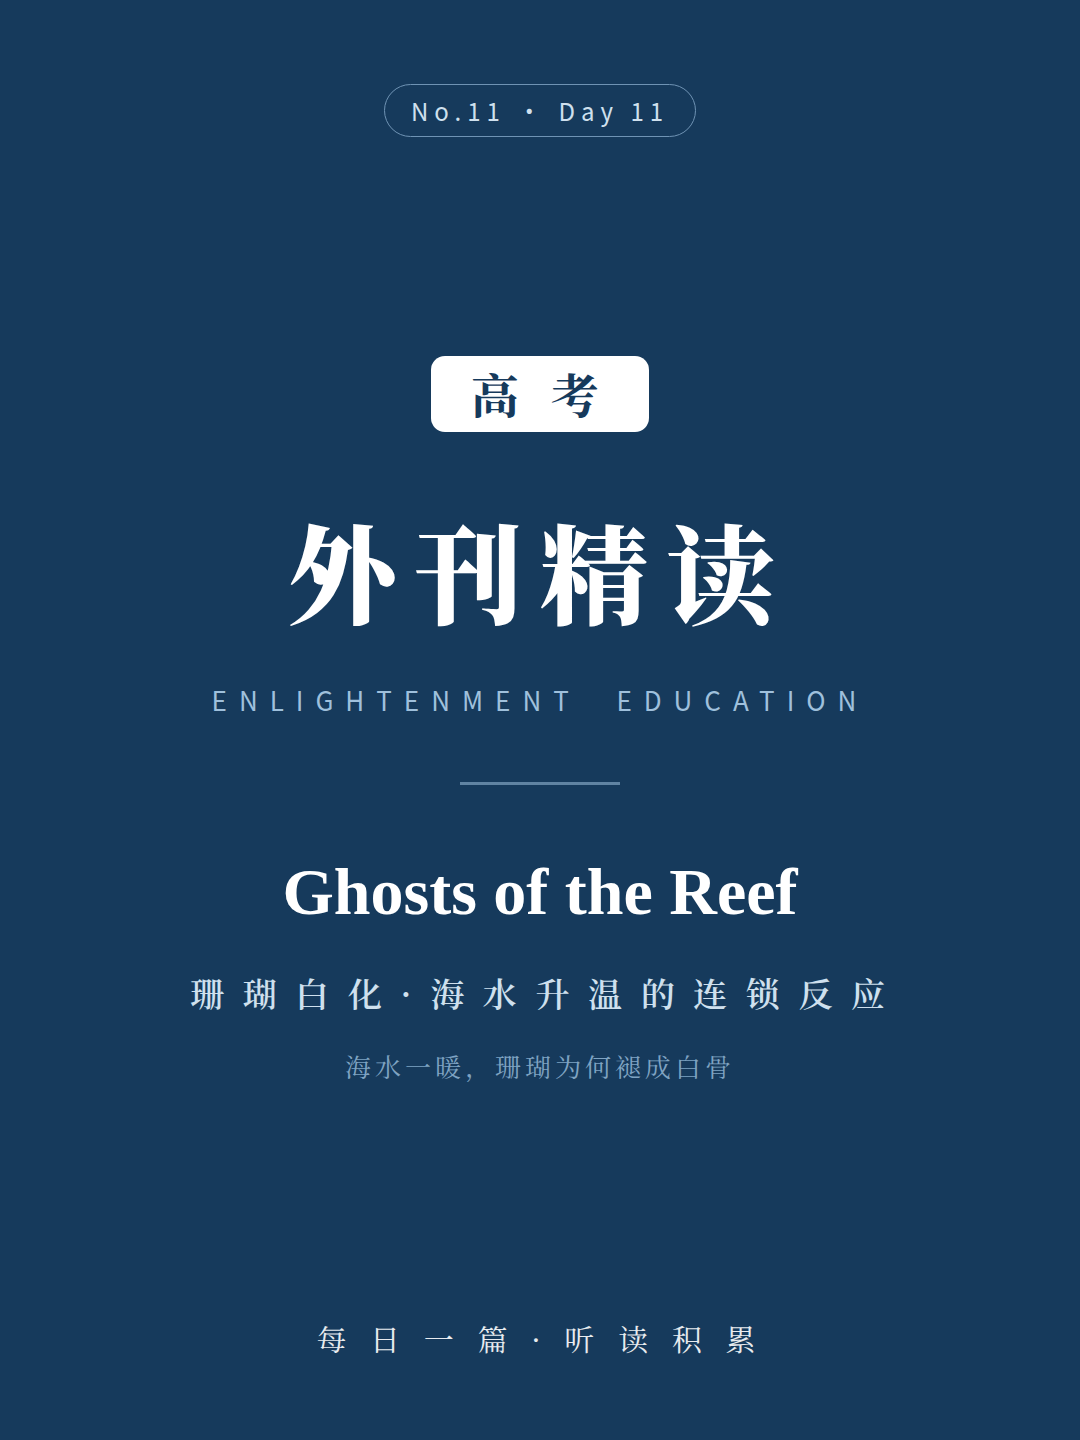
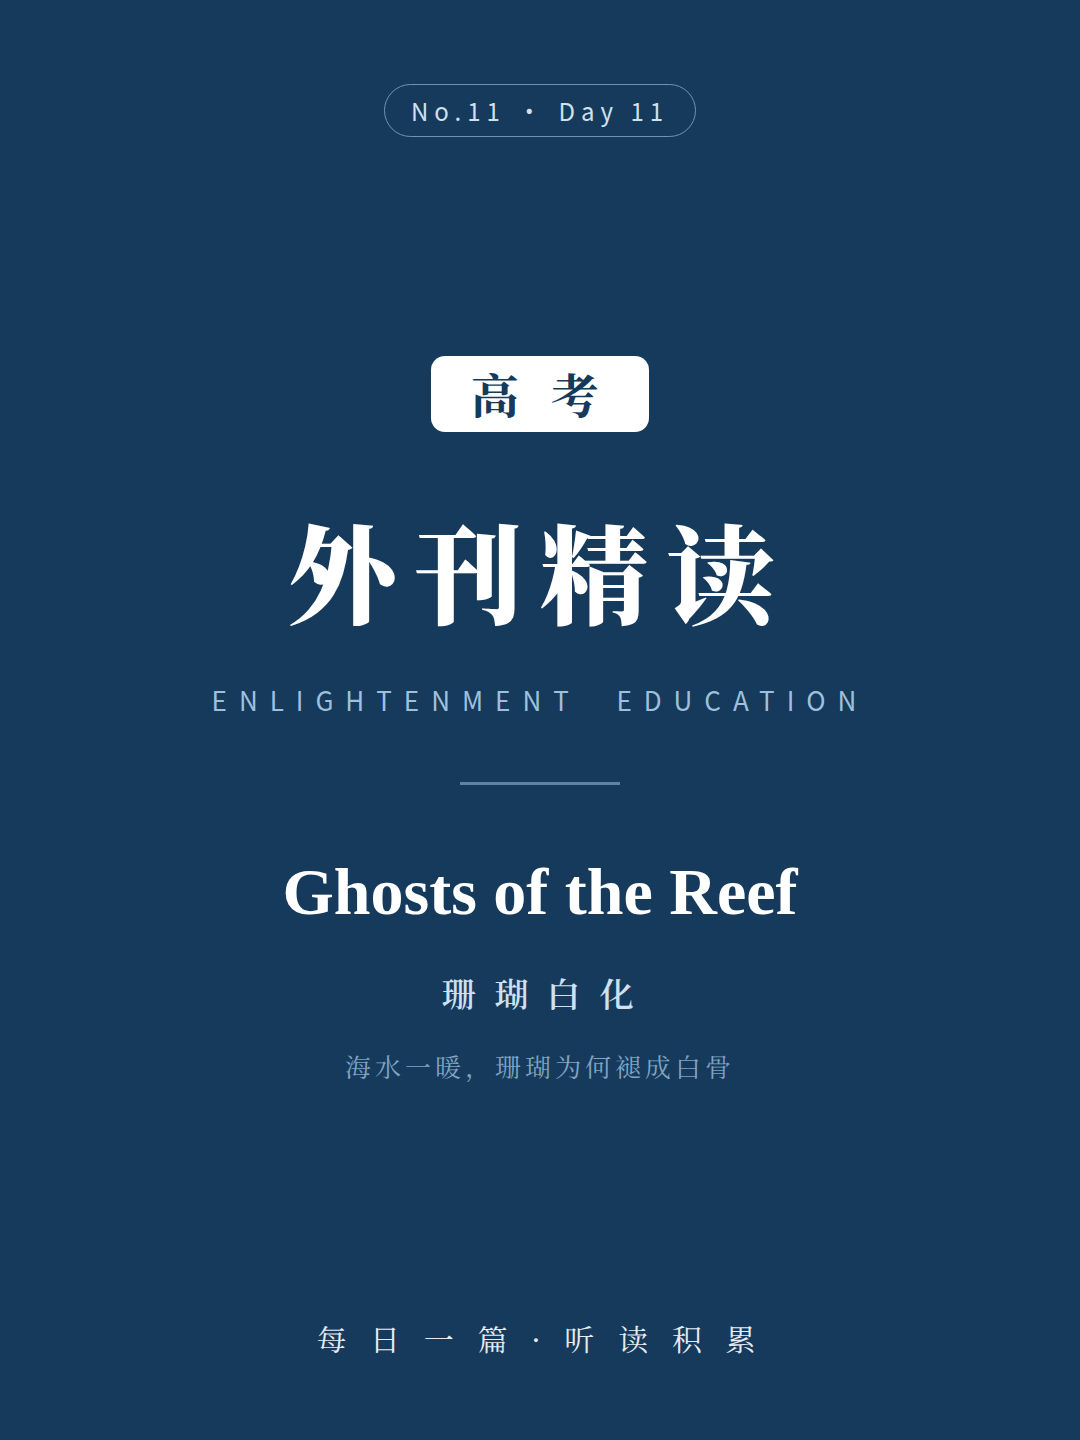
suucai: mark 高考外刊 No.11 珊瑚白化 posted (Elaine 07-31 确认已发)

diff --git a/suucai/build_catalog.py b/suucai/build_catalog.py
@@ -30,8 +30,9 @@ POSTED = {
     "听力|mokao-06","听力|mokao-07","听力|mokao-08","听力|changdh-01","听力|changdh-02",
     "听力|changdh-03","听力|changdh-04","听力|changdh-05","听力|changdh-06","听力|changdh-07","听力|changdh-08","听力|changdh-09","听力|changdh-10","听力|chuzhong-01","听力|zhenti-01","听力|jinjie-01",
     "听力|gaokao-d1","听力|gaokao-d2",
-    # 高考外刊 — No.08 威尼斯 07-15 已发；No.09 睡眠 07-17 Elaine 确认已发；No.10 一人一药/基因编辑 07-20 两平台视频已发
-    "高考外刊|1","高考外刊|2","高考外刊|3","高考外刊|4","高考外刊|5","高考外刊|6","高考外刊|7","高考外刊|8","高考外刊|9","高考外刊|10",
+    # 高考外刊 — No.08 威尼斯 07-15 已发；No.09 睡眠 07-17 Elaine 确认已发；No.10 一人一药/基因编辑 07-20 两平台视频已发；
+    #            No.11 珊瑚白化 07-31 Elaine 确认「珊瑚已发」（视频号/贴图号/公众号 + 朋友圈）
+    "高考外刊|1","高考外刊|2","高考外刊|3","高考外刊|4","高考外刊|5","高考外刊|6","高考外刊|7","高考外刊|8","高考外刊|9","高考外刊|10","高考外刊|11",
     # 初中外刊 — No.09 韦布望远镜 07-23 Elaine 确认已发（No.10 二十四节气 视频已交付, 未发）
     "初中外刊|1","初中外刊|2","初中外刊|3","初中外刊|4","初中外刊|5","初中外刊|6","初中外刊|7","初中外刊|8","初中外刊|9",
 }
